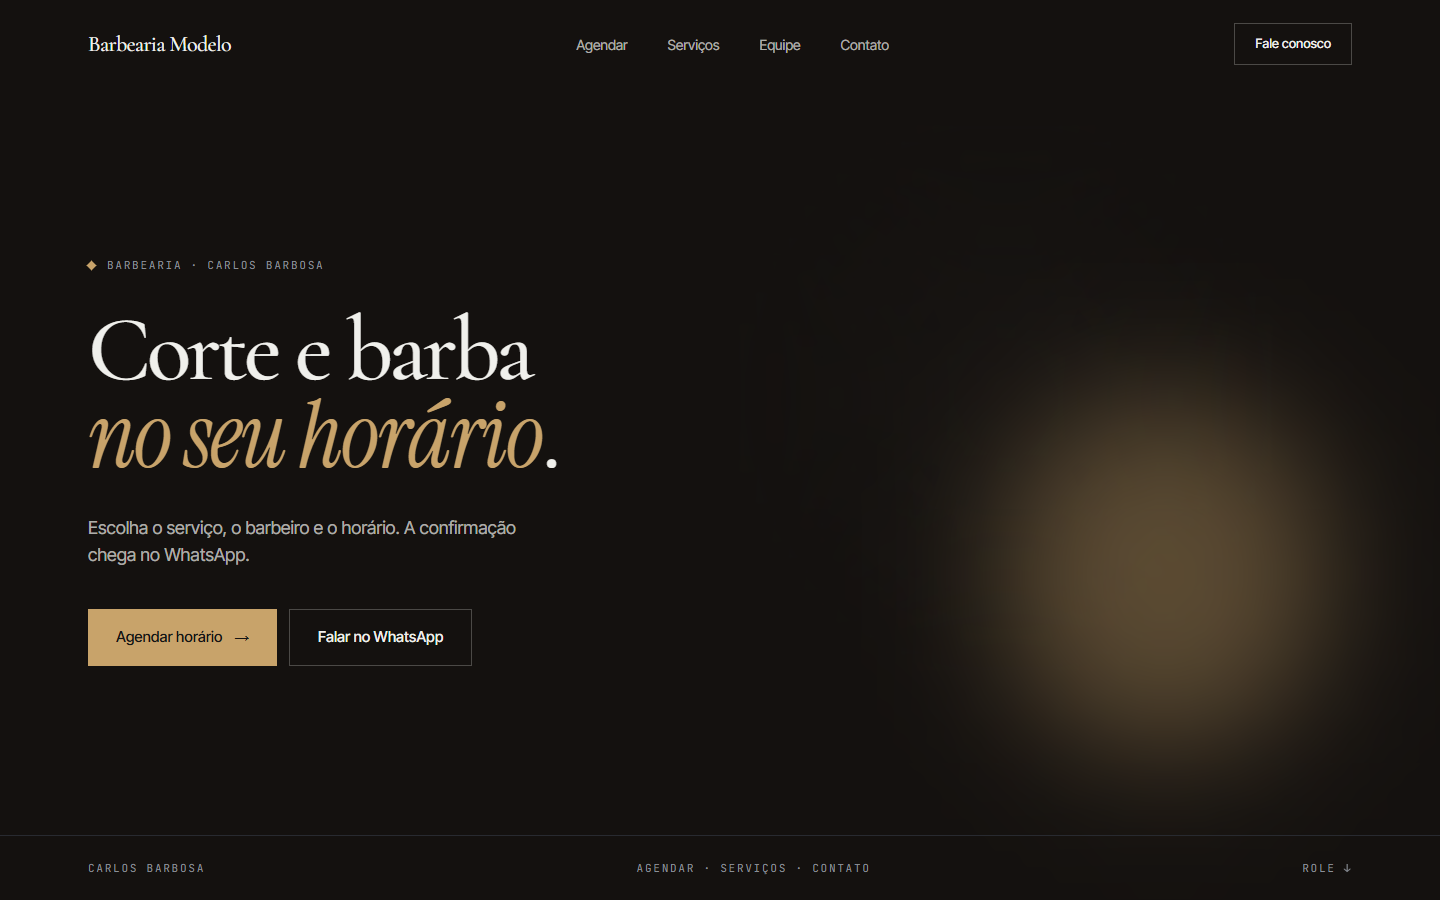
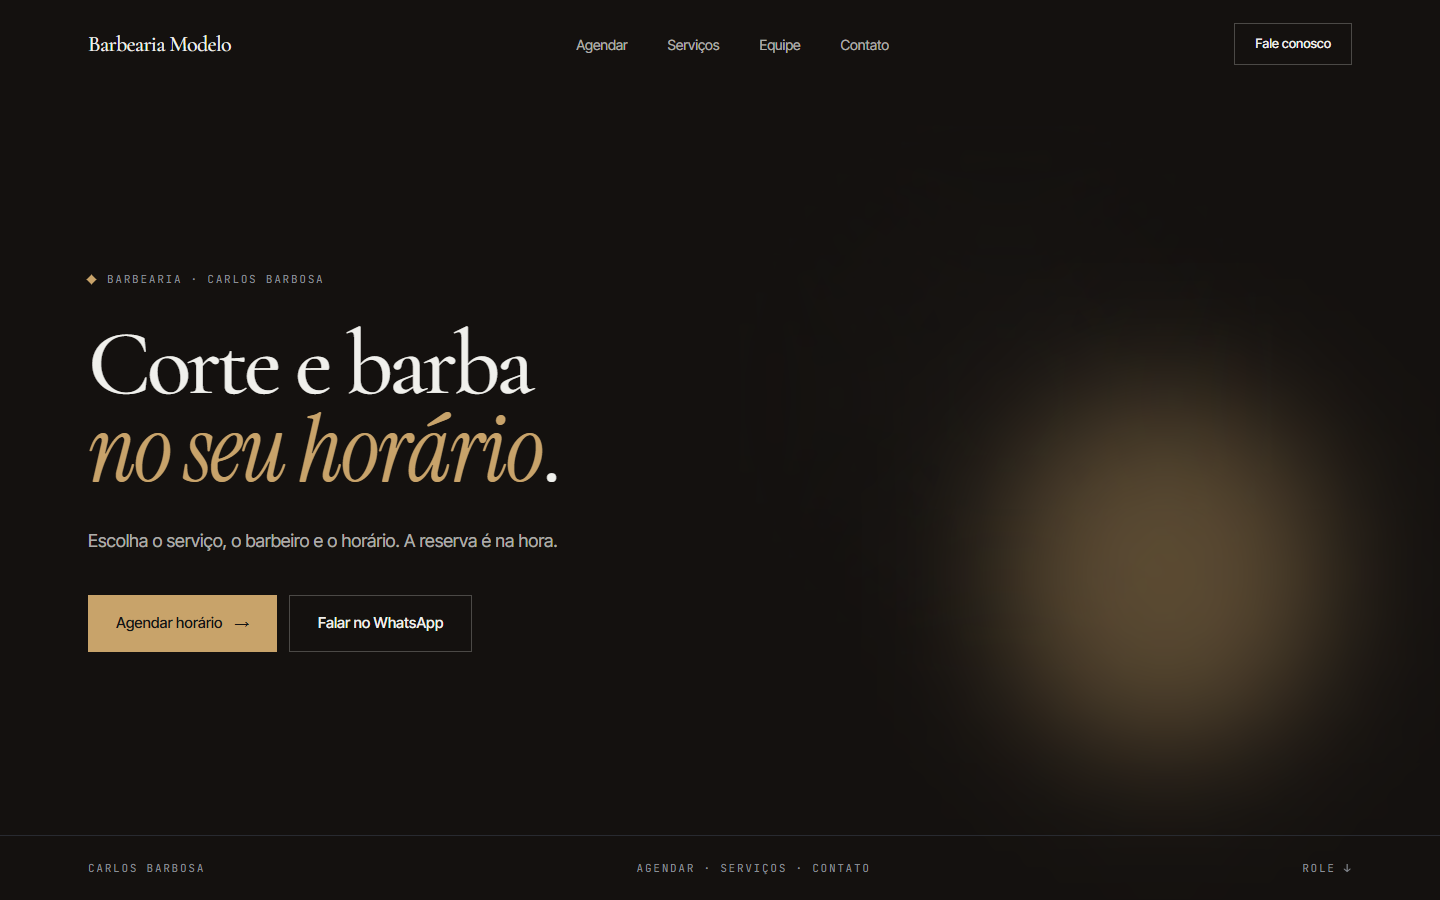
Página /saloes: valores, pagamento, reserva imediata e taxa de cancelamento

diff --git a/src/lib/saloes.ts b/src/lib/saloes.ts
@@ -44,19 +44,19 @@ export const EXEMPLO_APP = {
 export const PASSOS = [
   {
     title: 'Escolhe',
-    text: 'Serviço, profissional, dia e horário, numa tela com a identidade do salão.',
+    text: 'Serviço com o valor, profissional, dia, horário e forma de pagamento, numa tela com a identidade do salão.',
   },
   {
     title: 'Reserva',
-    text: 'O horário fica bloqueado na hora. Ninguém marca em cima.',
+    text: 'Reservar horário já bloqueia a agenda na hora. Ninguém marca em cima, e o cliente não precisa chamar no WhatsApp.',
   },
   {
-    title: 'Confirma',
-    text: 'Ele cai no WhatsApp do salão com a mensagem pronta: serviço, nome e horário.',
+    title: 'Avisa',
+    text: 'Se quiser, ele avisa o salão no WhatsApp com a mensagem pronta: serviço, nome e horário. É um extra.',
   },
   {
     title: 'Você gerencia',
-    text: 'No painel, você abre e fecha horários, muda serviços e preços e vê a agenda do dia.',
+    text: 'No painel, você abre e fecha horários, muda serviços e valores e vê a agenda do dia.',
   },
 ] as const;
 
@@ -77,6 +77,8 @@ export const SEM_AGENDA = [
 
 export const ENTRA = [
   'Agenda online com a identidade do salão',
+  'Valor de cada serviço e forma de pagamento escolhida pelo cliente',
+  'Taxa de cancelamento que você define, como 20% do valor',
   'Painel de horários, serviços e clientes',
   'Site próprio, com as suas fotos e as suas cores',
   'Domínio, hospedagem e segurança',
@@ -120,9 +122,19 @@ export const FAQ = [
       'Não. Você cancela quando quiser. A mensalidade só começa quando a agenda entra no ar e cobre domínio, hospedagem, segurança e ajustes pequenos.',
   },
   {
+    question: 'Dá para cobrar taxa de cancelamento?',
+    answer:
+      'Dá. Você define a porcentagem do valor do agendamento, por exemplo 20%, e ela aparece para o cliente, já calculada em reais, antes de ele reservar.',
+  },
+  {
+    question: 'O cliente precisa chamar no WhatsApp para garantir o horário?',
+    answer:
+      'Não. O botão Reservar horário já deixa o horário reservado na agenda. O aviso no WhatsApp do salão é um extra, para quem quiser.',
+  },
+  {
     question: 'O que o cliente precisa instalar?',
     answer:
-      'Nada. A agenda abre no navegador do celular, pelo link que vai na bio do Instagram, e a confirmação chega no WhatsApp do salão.',
+      'Nada. A agenda abre no navegador do celular, pelo link que vai na bio do Instagram.',
   },
 ] as const;
 

diff --git a/src/app/saloes/page.tsx b/src/app/saloes/page.tsx
@@ -26,7 +26,7 @@ import { SITE_URL } from '@/lib/seo';
 const PAGE_URL = `${SITE_URL}/saloes`;
 const TITLE = 'Agenda online e site para salões e barbearias';
 const DESCRIPTION =
-  'O cliente escolhe o serviço, o profissional e o horário e confirma no WhatsApp do salão. Agenda online e site próprio, a partir de R$ 59 por mês, sem taxa por agendamento.';
+  'O cliente escolhe o serviço, o profissional e o horário e reserva na hora. Agenda online e site próprio, a partir de R$ 59 por mês, sem taxa por agendamento.';
 
 export const metadata: Metadata = {
   title: TITLE,
@@ -139,8 +139,8 @@ export default function SaloesPage() {
                 </p>
                 <p className="text-pedra-500 mt-6 max-w-[34em] text-[clamp(18px,1.5vw,21px)] leading-[1.5]">
                   <NoBreak>
-                    Ele escolhe o serviço, o profissional e o horário, e chega no WhatsApp do salão
-                    com tudo preenchido. Junto, um site próprio, com as suas fotos e as suas cores.
+                    Ele escolhe o serviço, vê o valor, escolhe como vai pagar e reserva na hora, sem
+                    esperar resposta. Junto, um site próprio, com as suas fotos e as suas cores.
                   </NoBreak>
                 </p>
                 <div className="mt-9 flex flex-wrap items-center gap-x-6 gap-y-5">
